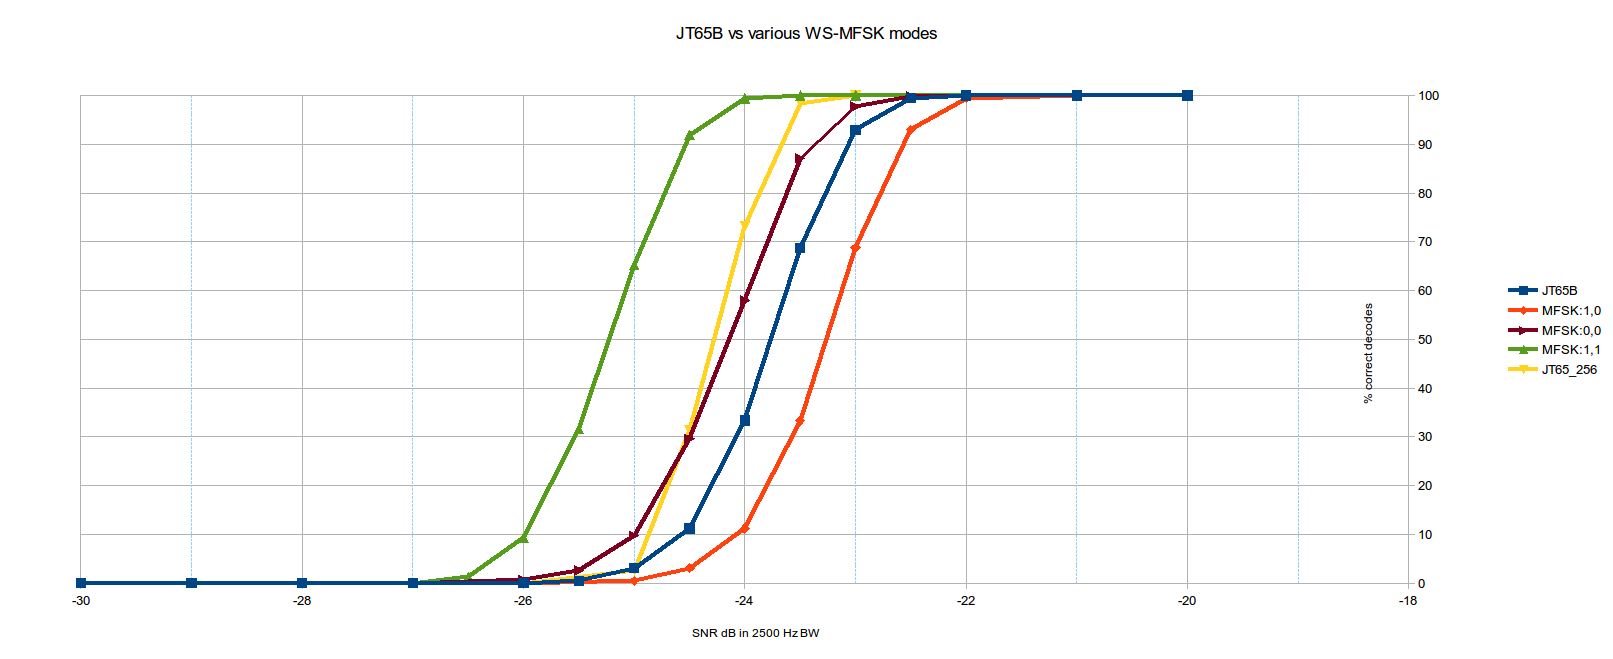
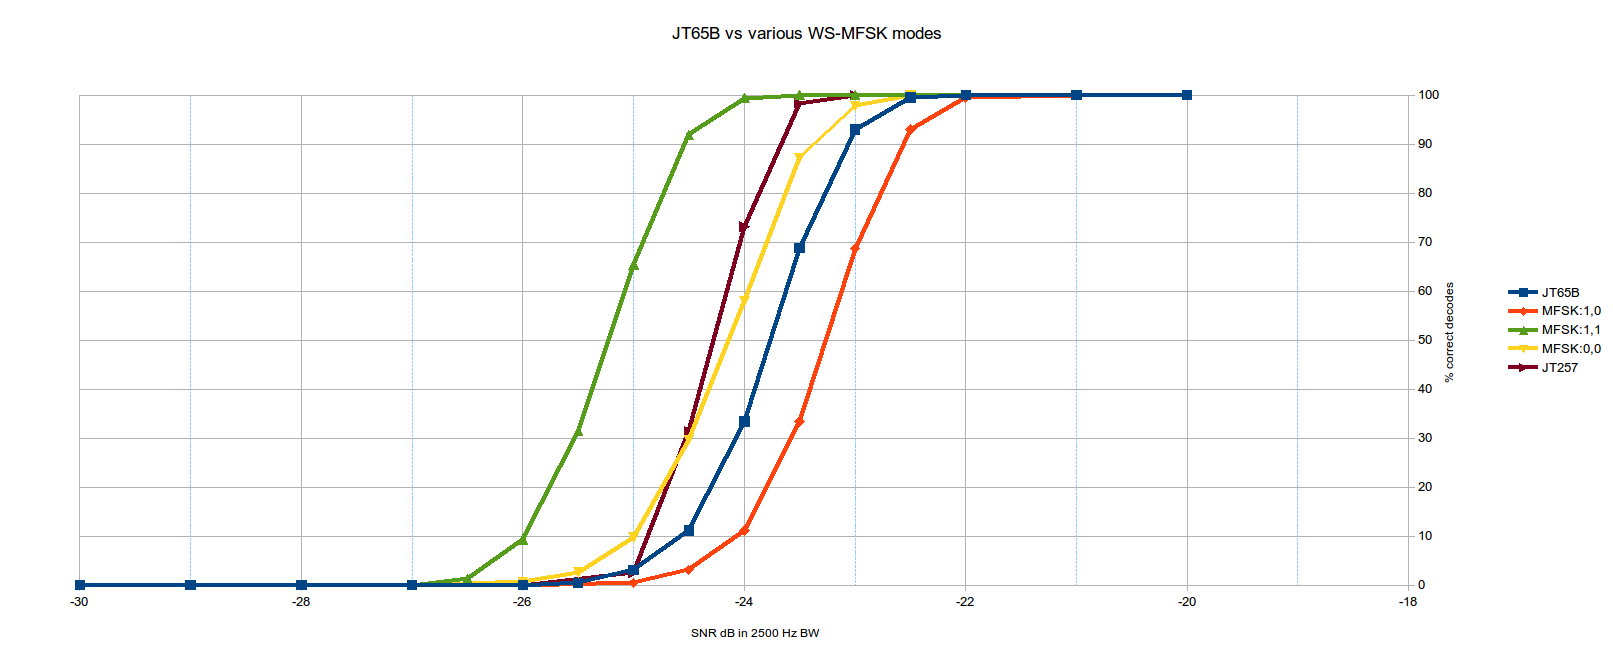
Rename JT65_256 mode to JT257 to be consistent with JT33

diff --git a/proto_cpp/src/SourceCodec_JT65.cpp b/proto_cpp/src/SourceCodec_JT65.cpp
@@ -341,7 +341,7 @@ bool SourceCodec_JT65::encode(const std::string& in_msg, std::vector<unsigned in
     {
         pack_message(packed_callsign_1, packed_callsign_2, packed_locator, out_msg);
     }
-    else if (variant == JT65_256)
+    else if (variant == JT257)
     {
         pack_message_256(packed_callsign_1, packed_callsign_2, packed_locator, out_msg);
     }
@@ -368,7 +368,7 @@ bool SourceCodec_JT65::decode(const std::vector<unsigned int>& in_msg, std::stri
     {
         unpack_message(in_msg, packed_callsign_1, packed_callsign_2, packed_locator, is_arbitrary_text);
     }
-    else if (variant == JT65_256)
+    else if (variant == JT257)
     {
         unpack_message_256(in_msg, packed_callsign_1, packed_callsign_2, packed_locator, is_arbitrary_text);
     }
@@ -1364,7 +1364,7 @@ void SourceCodec_JT65::print_source_codec_data(std::ostringstream& os) const
         case JT65_Classical:
             os << "JT65 classic with 12 6-bits symbols";
             break;
-        case JT65_256:
+        case JT257:
             os << "JT65 classic with 9 8-bits symbols";
             break;
         default:

diff --git a/proto_cpp/src/Options.cpp b/proto_cpp/src/Options.cpp
@@ -1476,9 +1476,9 @@ bool Options::parse_source_coding_data(std::string source_coding_data_str)
     			_source_codec = new SourceCodec_JT65();
     			status = true;
     		}
-            else if (_source_codec_type_str == "JT65_256")
+            else if (_source_codec_type_str == "JT257")
             {
-    			_source_codec = new SourceCodec_JT65(SourceCodec_JT65::JT65_256);
+    			_source_codec = new SourceCodec_JT65(SourceCodec_JT65::JT257);
     			status = true;
             }
     	}
@@ -1677,7 +1677,7 @@ bool Options::adjust_parameters_for_source_coding()
 
 		status = true;
 	}
-	else if (_source_codec_type_str == "JT65_256")
+	else if (_source_codec_type_str == "JT257")
 	{
 		nb_message_symbols = 256;
 

diff --git a/proto_cpp/src/SourceCodec_JT65.h b/proto_cpp/src/SourceCodec_JT65.h
@@ -103,7 +103,7 @@ public:
     typedef enum
     {
         JT65_Classical,  //!< Original
-        JT65_256,        //!< uses 9 8-bit symbols to pack the 72 bits, otherwise classical
+        JT257,           //!< uses 9 8-bit symbols to pack the 72 bits, otherwise classical
     } JT65_Variants;
 
     SourceCodec_JT65(JT65_Variants _variant = JT65_Classical);
